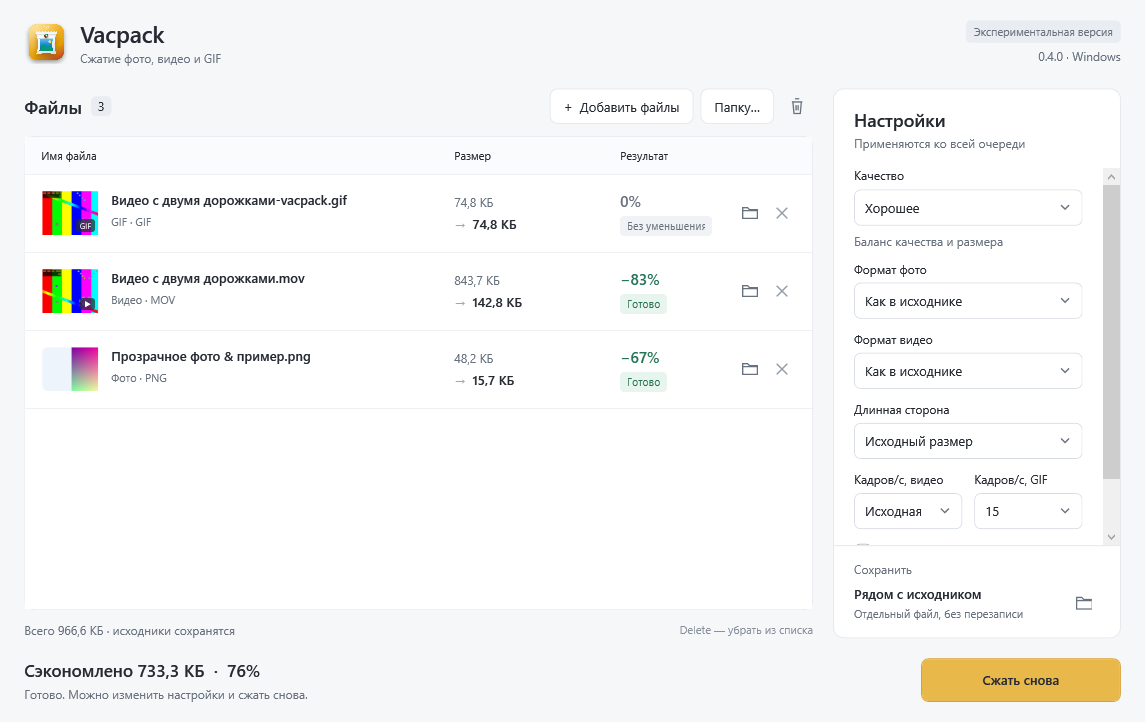
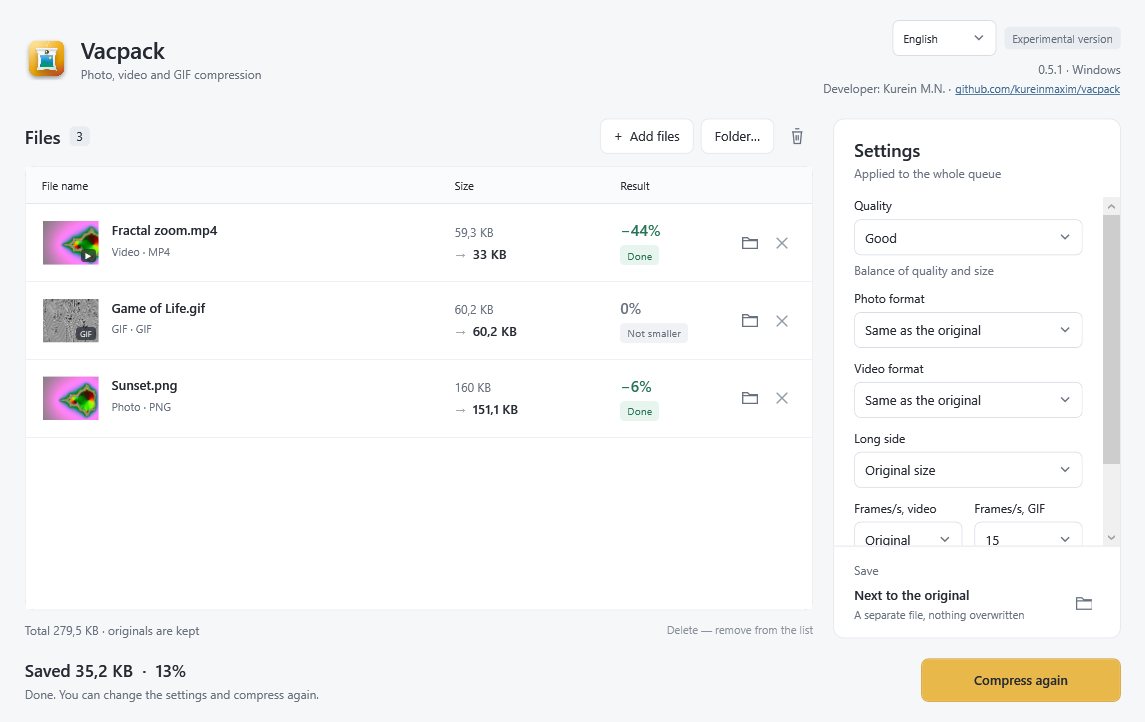
Show the current Windows 0.5.1 window in the README and link its downloads to that release.

diff --git a/README.md b/README.md
@@ -2,7 +2,7 @@
 
 Vacpack makes images, videos and GIFs smaller, entirely offline. It has a native macOS app and CLI, and an experimental native Windows app. Like vacuum packing: everything the file does not need is pumped out.
 
-**Windows preview:** a self-contained x64 installer and portable ZIP, with photo/video thumbnails, a cancellable queue and local image, video, GIF and audio processing. .NET is included; FFmpeg and ffprobe are installed separately. See [Windows/README.md](Windows/README.md) for installation and limitations, or the [Windows preview release](https://github.com/kureinmaxim/vacpack/releases/tag/v0.4.0-windows-preview.1).
+**Windows preview:** a self-contained x64 installer and portable ZIP, with photo/video thumbnails, a cancellable queue and local image, video, GIF and audio processing. .NET is included; FFmpeg and ffprobe are installed separately. The interface is English by default, with Russian as a choice. See [Windows/README.md](Windows/README.md) for installation and limitations, or the [0.5.1 release](https://github.com/kureinmaxim/vacpack/releases/tag/v0.5.1).
 
 **Version:** `0.5.1`, released 21.10.2026 · [changelog](CHANGELOG.md) · [how versions are managed](VERSION_MANAGEMENT.md)
 
@@ -37,9 +37,9 @@ Vacpack makes images, videos and GIFs smaller, entirely offline. It has a native
 
 ## Windows
 
-Download the installer or ZIP from the [Windows preview release](https://github.com/kureinmaxim/vacpack/releases/tag/v0.4.0-windows-preview.1). Both include the .NET runtime. Install [FFmpeg for Windows](https://ffmpeg.org/download.html#build-windows) separately; the app lets you choose its `bin` directory. Windows currently supports a subset of the macOS features; see [the Windows guide](Windows/README.md).
+Download the installer or ZIP from the [0.5.1 release](https://github.com/kureinmaxim/vacpack/releases/tag/v0.5.1). Both include the .NET runtime. Install [FFmpeg for Windows](https://ffmpeg.org/download.html#build-windows) separately; the app lets you choose its `bin` directory. Windows currently supports a subset of the macOS features; see [the Windows guide](Windows/README.md).
 
-![Vacpack on Windows with photo, video and GIF thumbnails](docs/images/window-windows.png)
+![Vacpack 0.5.1 on Windows, in English: a photo, a video and a GIF with thumbnails and savings, and a language choice in the header](docs/images/window-windows.png)
 
 ## Requirements for macOS
 
